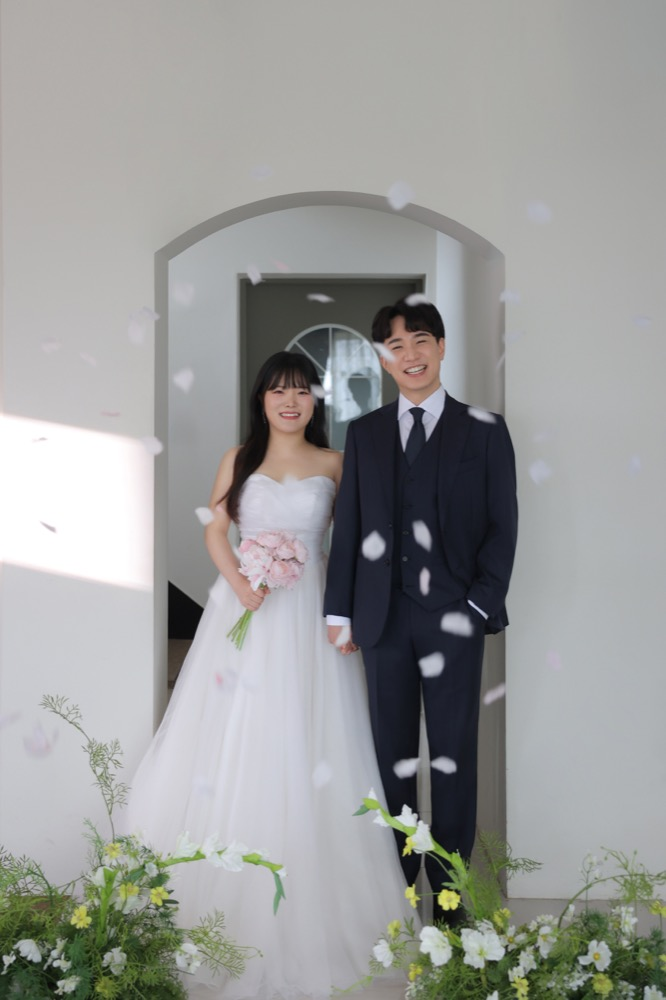
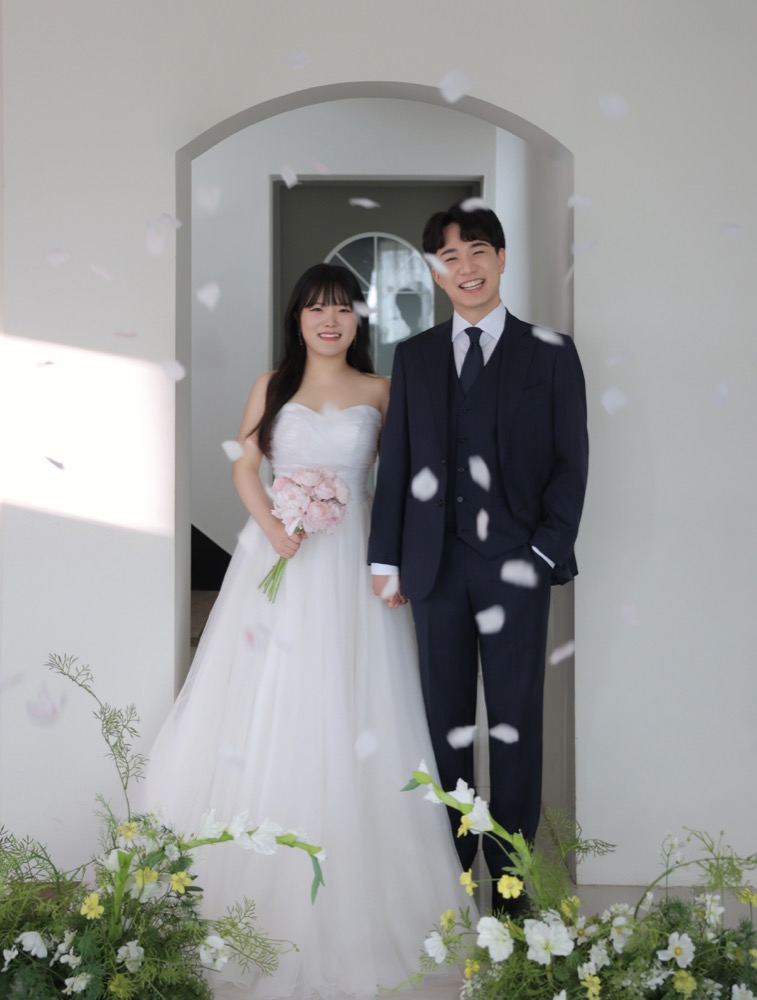
update

diff --git a/src/component/location/map.tsx b/src/component/location/map.tsx
@@ -1,8 +1,10 @@
-import { useEffect, useRef } from "react"
+import { useEffect, useRef, useState } from "react"
 import { useKakaoMap } from "../store"
 import kakaoMapIcon from "../../icons/knavi-icon.png"
 import naverMapIcon from "../../icons/nmap-icon.png"
 import tmapIcon from "../../icons/tmap-icon.png"
+import LockIcon from "../../icons/lock-icon.svg?react"
+import UnlockIcon from "../../icons/unlock-icon.svg?react"
 import {
   KMAP_PLACE_ID,
   LOCATION,
@@ -27,6 +29,7 @@ export const Map = () => {
 const KakaoMap = () => {
   const { kakaoMap, kakaoMapLoadFailed } = useKakaoMap()
   const ref = useRef<HTMLDivElement>(null)
+  const [locked, setLocked] = useState(true)
 
   const openTmapRoute = () => {
     const params = new URLSearchParams({
@@ -109,6 +112,21 @@ const KakaoMap = () => {
             }}
           >
             카카오 지도에서 위치 보기
+          </button>
+        )}
+
+        {locked && !kakaoMapLoadFailed && <div className="lock" />}
+
+        {!kakaoMapLoadFailed && (
+          <button
+            type="button"
+            className={"lock-button" + (locked ? "" : " unlocked")}
+            aria-label={locked ? "지도 터치 잠금 해제" : "지도 터치 잠금"}
+            onClick={() => {
+              setLocked((locked) => !locked)
+            }}
+          >
+            {locked ? <LockIcon /> : <UnlockIcon />}
           </button>
         )}
 

diff --git a/src/component/location/index.scss b/src/component/location/index.scss
@@ -11,6 +11,40 @@
     height: 20rem;
     position: relative;
     z-index: 3;
+    .lock {
+      position: absolute;
+      top: 0;
+      left: 0;
+      width: 100%;
+      height: 100%;
+      z-index: 200;
+      display: flex;
+      flex-direction: column;
+      justify-content: flex-end;
+    }
+    .lock-button {
+      position: absolute;
+      top: 3%;
+      left: 3%;
+      width: 10%;
+      height: 10%;
+      z-index: 201;
+      background-color: var(--white-color);
+      border: 1px solid var(--dark-grey-color);
+      border-radius: 10%;
+      display: flex;
+      justify-content: center;
+      align-items: center;
+      svg {
+        width: 80%;
+        height: 80%;
+        fill: var(--dark-color);
+      }
+
+      &.unlocked {
+        opacity: 0.5;
+      }
+    }
     .map-fallback {
       position: absolute;
       top: 0;

diff --git a/src/images/index.ts b/src/images/index.ts
@@ -20,6 +20,7 @@ export const COVER_IMAGE = image1
  * 갤러리에 표시될 이미지 목록
  */
 export const GALLERY_IMAGES = [
+  image9,
   image2,
   image3,
   image4,
@@ -27,7 +28,6 @@ export const GALLERY_IMAGES = [
   image6,
   image7,
   image8,
-  image9,
   image10,
   image11,
   image12,
